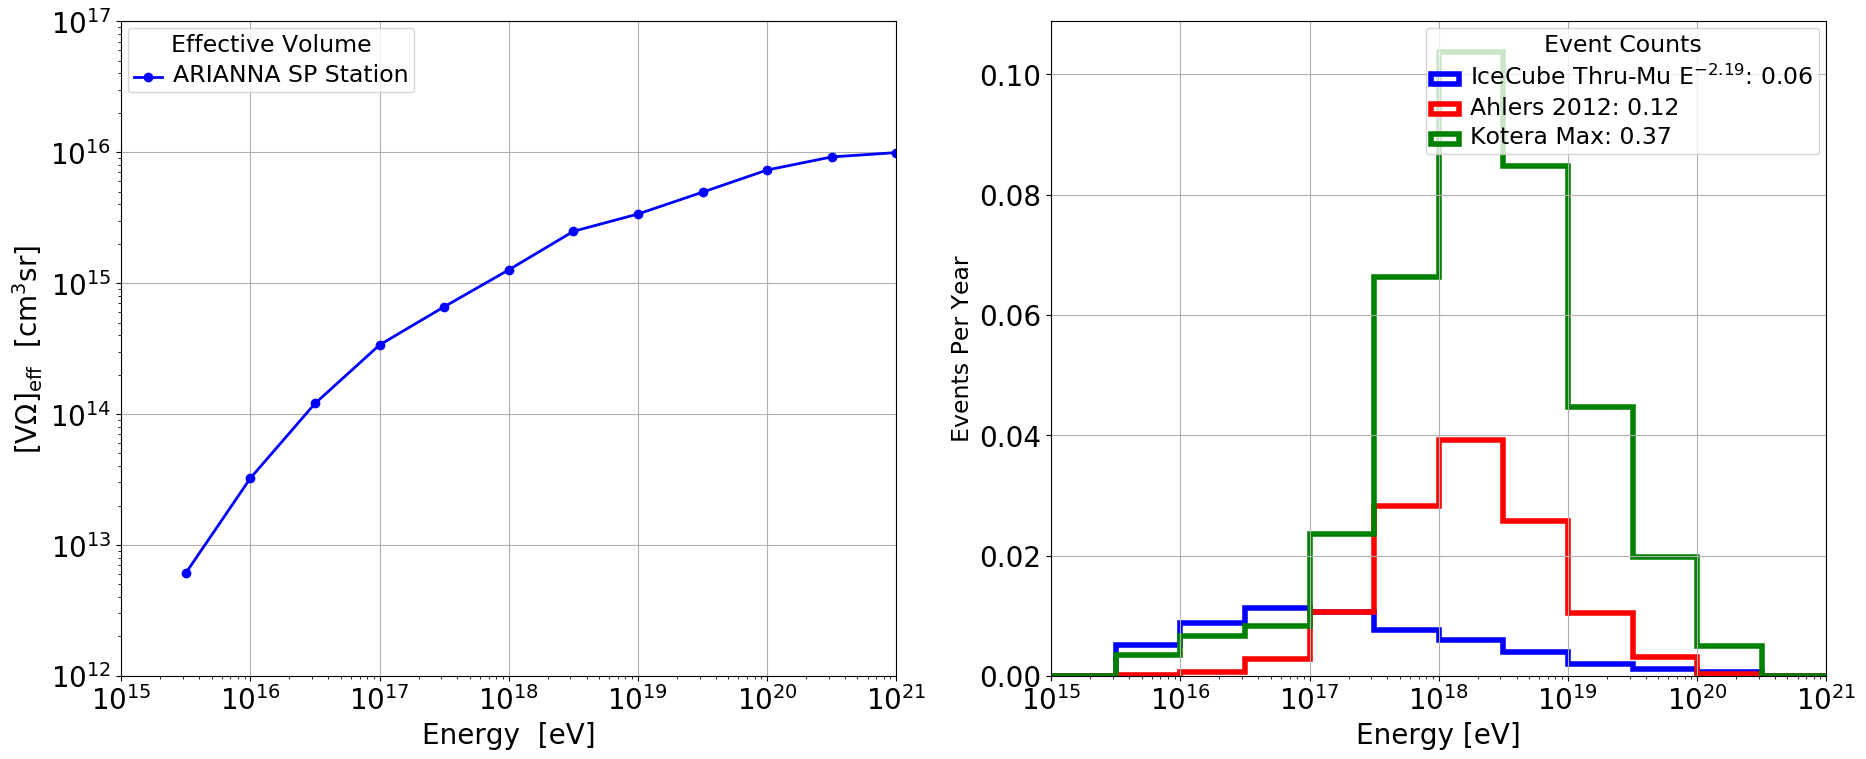
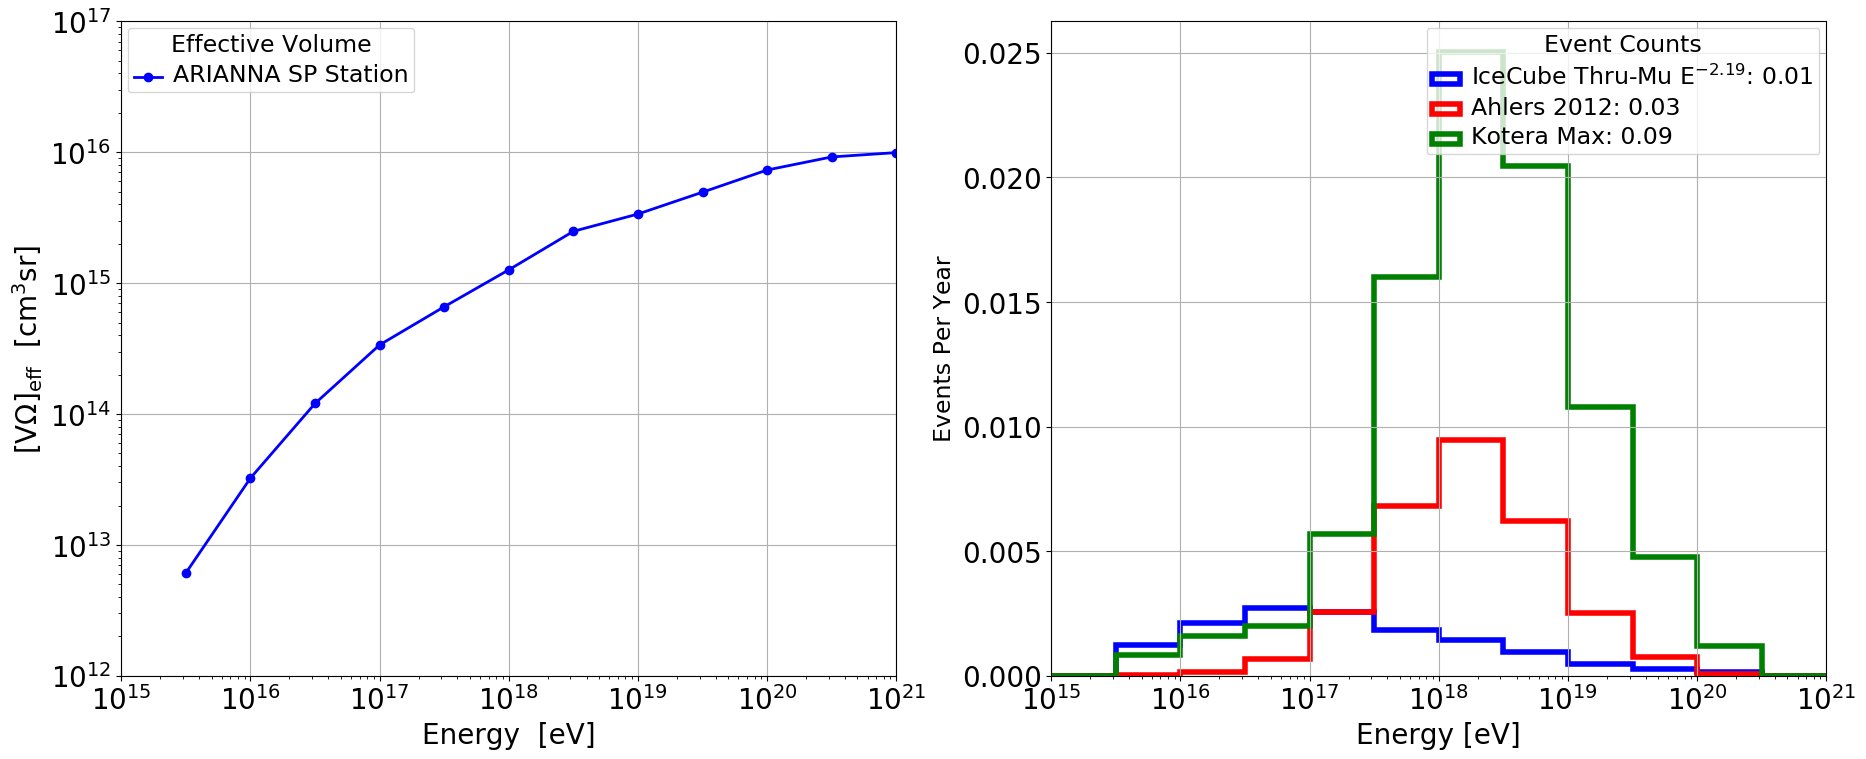
Fix density for calculation

diff --git a/event_counts/constants.py b/event_counts/constants.py
@@ -2,5 +2,5 @@
 SecPerDay = 86400. #second in a day
 SecPerYear = SecPerDay*365. #second in a year
 KM2toCM2 = 1.e10 #multiply by this to convert from km^2 to cm^2 (divide to go the other way)
-EarthDensity = 3.8 #g/cm^2
+EarthDensity = 0.917 #g/cm^3
 NucleonMass = 1.67e-24 #nucleon mass in grams
